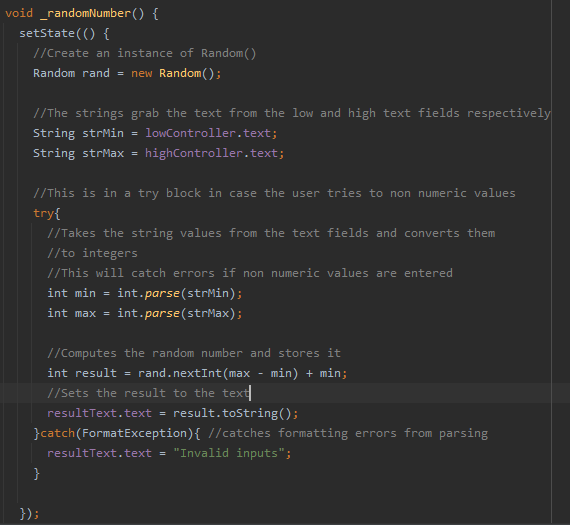
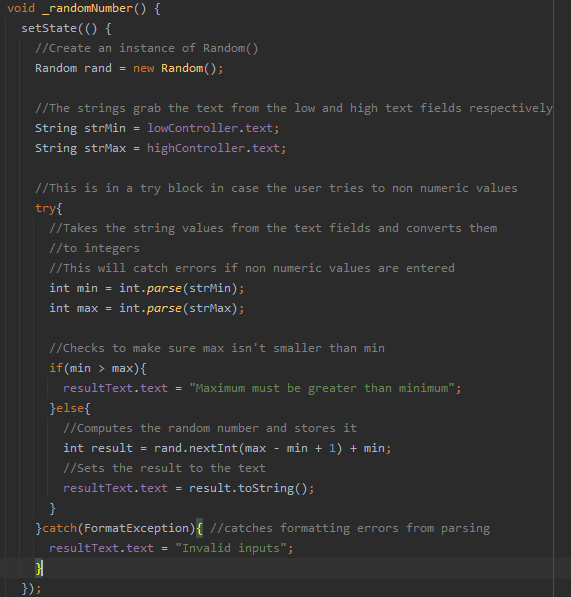
added basic layout instructions

diff --git a/random_number_generator/lib/main.dart b/random_number_generator/lib/main.dart
@@ -72,64 +72,50 @@ class _MyHomePageState extends State<MyHomePage> {
         int min = int.parse(strMin);
         int max = int.parse(strMax);
 
-        //Computes the random number and stores it
-        int result = rand.nextInt(max - min) + min;
-        //Sets the result to the text
-        resultText.text = result.toString();
+        //Checks to make sure max isn't smaller than min
+        if(min > max){
+          resultText.text = "Maximum must be greater than minimum";
+        }else{
+          //Computes the random number and stores it
+          int result = rand.nextInt(max - min + 1) + min;
+          //Sets the result to the text
+          resultText.text = result.toString();
+        }
       }catch(FormatException){ //catches formatting errors from parsing
         resultText.text = "Invalid inputs";
       }
-
     });
   }
 
   @override
   Widget build(BuildContext context) {
-    // This method is rerun every time setState is called, for instance as done
-    // by the _incrementCounter method above.
-    //
-    // The Flutter framework has been optimized to make rerunning build methods
-    // fast, so that you can just rebuild anything that needs updating rather
-    // than having to individually change instances of widgets.
     return Scaffold(
       appBar: AppBar(
-        // Here we take the value from the MyHomePage object that was created by
-        // the App.build method, and use it to set our appbar title.
         title: Text(widget.title),
       ),
       body: Center(
-        // Center is a layout widget. It takes a single child and positions it
-        // in the middle of the parent.
         child: Column(
-          // Column is also a layout widget. It takes a list of children and
-          // arranges them vertically. By default, it sizes itself to fit its
-          // children horizontally, and tries to be as tall as its parent.
-          //
-          // Invoke "debug painting" (press "p" in the console, choose the
-          // "Toggle Debug Paint" action from the Flutter Inspector in Android
-          // Studio, or the "Toggle Debug Paint" command in Visual Studio Code)
-          // to see the wireframe for each widget.
-          //
-          // Column has various properties to control how it sizes itself and
-          // how it positions its children. Here we use mainAxisAlignment to
-          // center the children vertically; the main axis here is the vertical
-          // axis because Columns are vertical (the cross axis would be
-          // horizontal).
           mainAxisAlignment: MainAxisAlignment.center,
           children: <Widget>[
             Text(
               'Random number generator',
             ),
-            TextField(
-              controller: lowController,
-              decoration: InputDecoration(
-                hintText: 'Low'
+            Padding(
+              padding: const EdgeInsets.all(20.0),
+              child: TextField(
+                controller: lowController,
+                decoration: InputDecoration(
+                  hintText: 'Low'
+                ),
               ),
             ),
-            TextField(
-              controller: highController,
-              decoration: InputDecoration(
-                hintText: 'High'
+            Padding(
+              padding: const EdgeInsets.all(20.0),
+              child: TextField(
+                controller: highController,
+                decoration: InputDecoration(
+                  hintText: 'High'
+                ),
               ),
             ),
             FlatButton(
@@ -140,8 +126,11 @@ class _MyHomePageState extends State<MyHomePage> {
                 'Calculate'
               ),
             ),
-            TextField(
-              controller: resultText
+            Padding(
+              padding: const EdgeInsets.all(20.0),
+              child: TextField(
+                controller: resultText
+              ),
             ),
           ],
         ),

diff --git a/Tutorial/Instructions.md b/Tutorial/Instructions.md
@@ -8,6 +8,19 @@ Then, make sure an SDK is selected:
 ![SDK](Images/ProjectSDK.PNG)
 
 ## Create a layout
+The code for the entire layout is this:    
+![layout1](Images/LayoutPart1.PNG)   
+![layout2](Images/LayoutPart2.PNG)   
+This is under the Widget build (BuildContext context){} method.   
+It's put into a column, which is center alligned.
+Other elements:
+* children is everything that goes within the column
+* Text is similar to a TextView in Android Studio
+* TextField is like the TextField in Android Studio
+* A FlatButton is a button
+More about the TextFields:
+* The controller is what allows the text in the text field to be accessed in another function
+* The Padding can be added after the TextField is created by clicking on TextFiled, pressing Alt + Enter (Option + Return on Mac) and selecting 'wrap in padding'   
 
 ## Add logic for the button
 First, import 'dart:math' to generate random numbers:   
